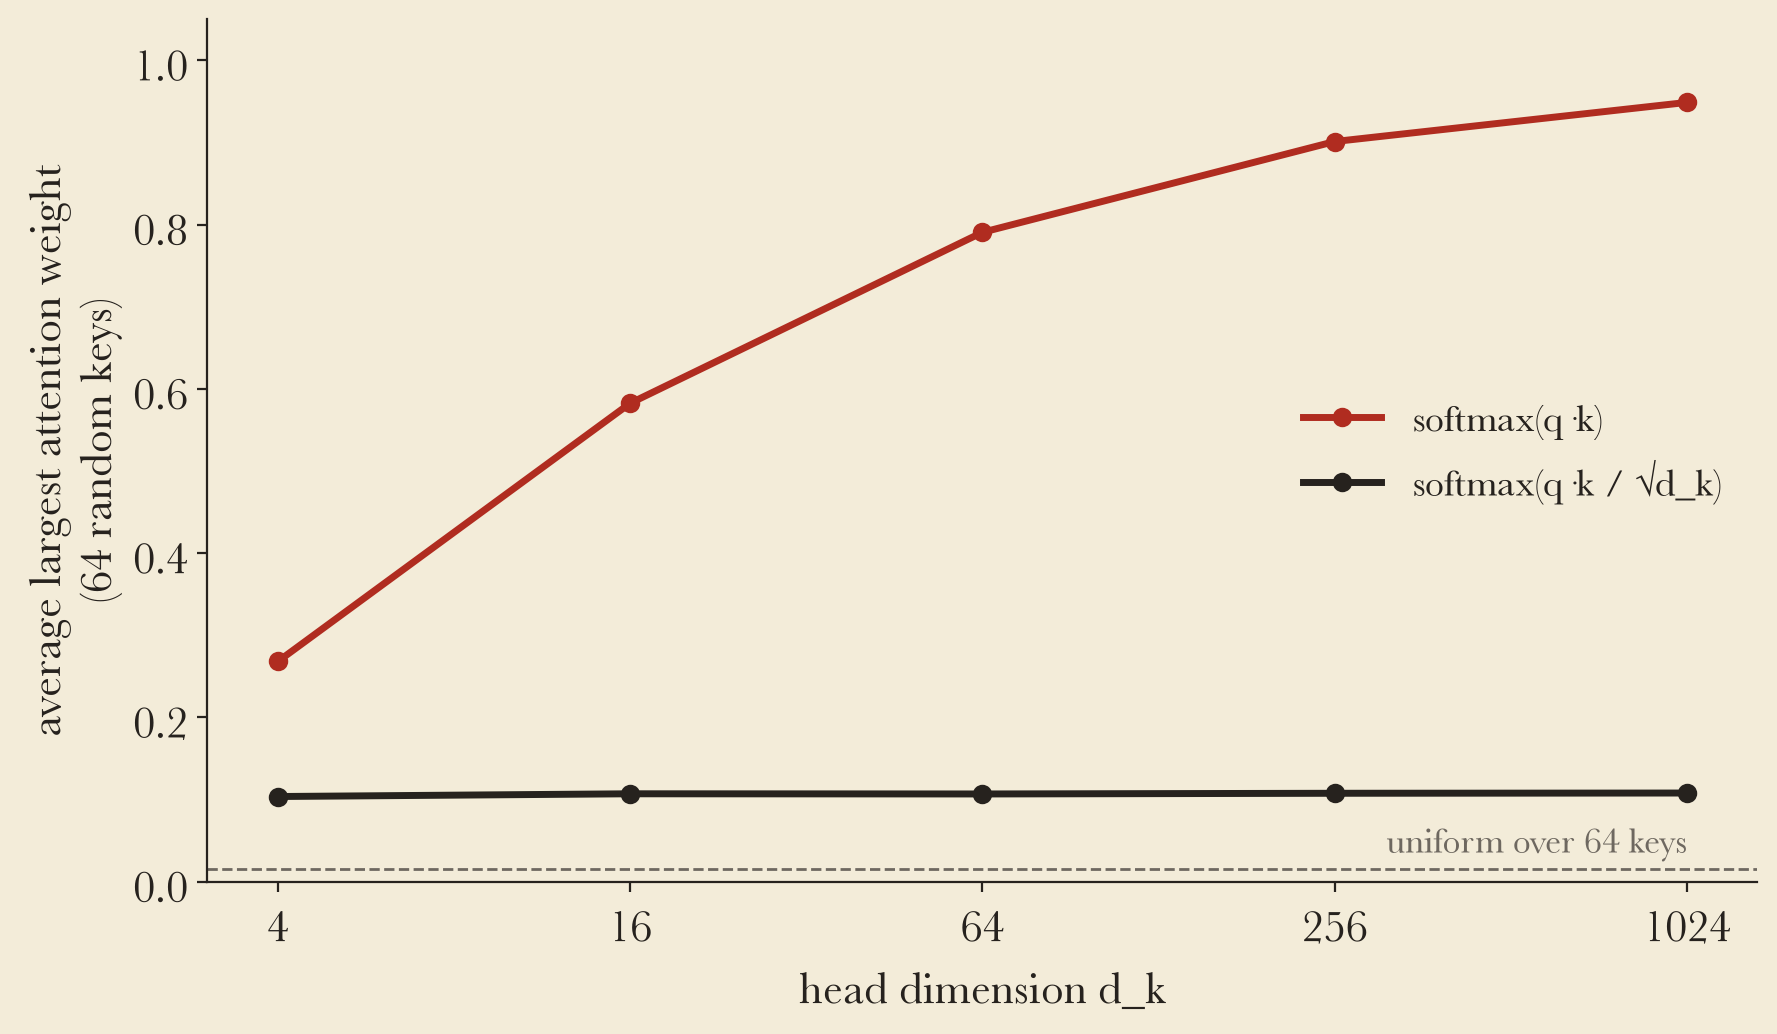
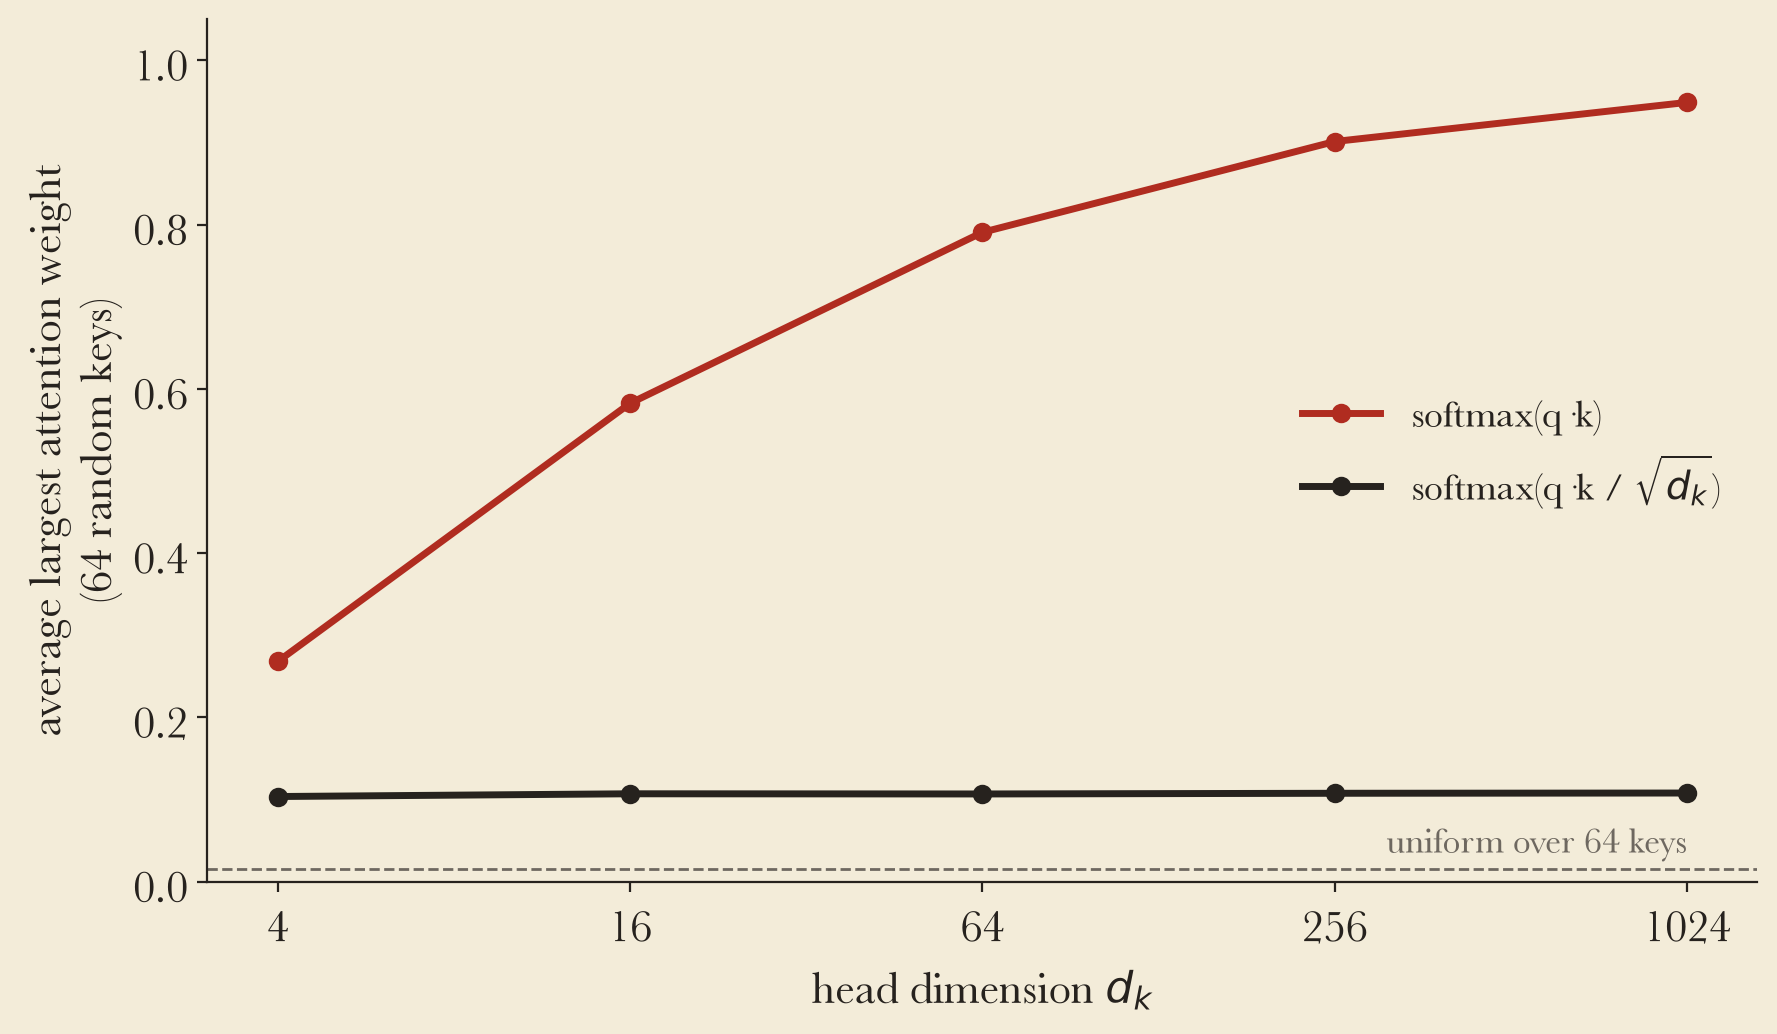
Lecture 3: technical part rebuilt on Jurafsky's ladder

Changed region(s): [[0.4333, 0.9284, 0.65, 0.9903], [0.7428, 0.4333, 0.9595, 0.4952], [0.7428, 0.3714, 0.8976, 0.4333]]

diff --git a/slides/lectures/03-attention.md b/slides/lectures/03-attention.md
@@ -10,7 +10,7 @@
 </div>
 <div class="pic" style="background-image:url(assets/babbage.jpg)"></div>
 
-Note: Babbage's Difference Engine: a machine that computes tables. Today's machine computes a table too, a different one for every sentence. The lecture in one sentence, to say at the start and at the end: each word asks a question, compares it with a label on every earlier word, and takes a weighted average of what those words carry. Pacing for 90 minutes: recap and problem 8, history 12, soft lookup and the dial 27, break 10, queries keys values 15, causal and heads with the lab 10, GPT-2 and what is missing 8, close 2. Running behind: drop the shuffle press-run (the table slide carries the message).
+Note: Babbage's Difference Engine: a machine that computes tables. Today's machine computes a table too, a different one for every sentence. The lecture in one sentence, to say at the start and at the end: each word asks a question, compares it with a label on every earlier word, and takes a weighted average of what those words carry. Pacing for 90 minutes: recap and problem 8, history 12, soft lookup and the dial 22, context 6, queries keys values 16, causal and heads with the lab 12, GPT-2 and what is missing 8, close 2. Running behind: drop the shuffle press-run (the table slide carries the message).
 
 ---
 
@@ -220,6 +220,12 @@ A *soft* dictionary would answer "kitten" anyway: compare it with every key, see
 
 </div>
 
+<div class="fragment">
+
+Build a table out of the dict's parts and you have attention's ingredients: the query is what you ask, the keys label every row, the values are what the rows hand over. Three intuitions make the table work, one per slide from here.
+
+</div>
+
 Note: Press run: "Katze", then a KeyError. The key that is asked for is the query. Attention keeps the three parts of a dict, query, key and value, and replaces "equal or not" by "how similar".
 
 ---
@@ -245,7 +251,7 @@ Note: Each row is the token's row of the embedding table from lecture 2, written
 
 <p class="kicker">Soft lookup · 3</p>
 
-## Step 1: a score is the dot product of the query with each key.
+## Intuition 1: the score of a query and a key is their dot product.
 
 $$ q \cdot k = q_1 k_1 + q_2 k_2 + q_3 k_3 + q_4 k_4 $$
 
@@ -259,15 +265,17 @@ $$ q \cdot k = q_1 k_1 + q_2 k_2 + q_3 k_3 + q_4 k_4 $$
 
 The dot product is large when two vectors point the same way.
 
+<img src="figures/03_dot_product.png" alt="Three pairs of vectors: the same way gives a large score, at right angles zero, opposite ways negative" style="height: 200px;">
+
 </div>
 
-Note: Do one on the board. This is the "how similar" of the soft dict. With these readable vectors the scores are whole numbers; in a real model they are anything.
+Note: Do one on the board. This is the "how similar" of the soft dict. With these readable vectors the scores are whole numbers; in a real model they are anything. The strip (figures/03_dot_product.py): the same way gives a large product, right angles zero, opposite ways negative.
 
 ---
 
 <p class="kicker">Soft lookup · 4</p>
 
-## Step 2: softmax turns scores into weights that sum to one.
+## Intuition 2: softmax turns the scores into weights that sum to one.
 
 <div style="font-size: 0.95em; display: flex; justify-content: center;">
 
@@ -295,7 +303,7 @@ Note: Why e and not just the scores: scores can be negative, weights cannot. Sof
 
 <p class="kicker">Soft lookup · 5</p>
 
-## Step 3: the output is the weighted average of the values.
+## Intuition 3: the output is the weighted average of the values.
 
 $$ z = 0.711\, v_{\text{cat}} + 0.096\, v_{\text{sat}} + 0.096\, v_{\text{mat}} + 0.096\, v_{\text{it}} $$
 
@@ -309,7 +317,13 @@ $$ z = [0.711,\ 0.096,\ 0.096,\ 0.096] $$
 
 </div>
 
-Note: This z replaces the row of "it" for the next layer. That is the whole point: after attention, "it" carries what it refers to. The weights tell you where the values came from, not why: say this now, it comes back with GPT-2 in Part 5.
+<div class="fragment">
+
+The values are little rows of meaning, and the blend is "it"'s new row: "the output of attention is a sum of the embeddings of prior tokens weighted by their similarity with the current token embedding" (Jurafsky & Martin).
+
+</div>
+
+Note: This z replaces the row of "it" for the next layer. That is the whole point: after attention, "it" carries what it refers to. The weights tell you where the values came from, not why: say this now, it comes back with GPT-2 in Part 4. The quote: Jurafsky & Martin, SLP3 ch. 7, §7.1.1.
 
 ---
 
@@ -372,6 +386,54 @@ Note: Drag slowly. At 0 every word gets 0.25: a blurry average. At 1: 0.475 on c
 
 ---
 
+<p class="kicker">Context · 1</p>
+
+## A word's row of numbers has to take in its context.
+
+- "it" can mean different things. You cannot look "it" up in a dictionary and know what it means here: that depends on the sentence.
+- Lecture 2 gave every token the same row in every sentence. A word whose meaning changes with context needs a row that changes too.
+- The row attention writes is called a contextual embedding: the meaning of the word, in this sentence.
+
+<div class="fragment">
+
+"Attention is a method for enriching the representation of a token by incorporating contextual information." That is Jurafsky and Martin's one-line version of today.
+
+</div>
+
+Note: Jurafsky and Martin open their transformer chapter exactly here (SLP3 ch. 7, §7.1): their running example is "The chicken didn't cross the road because it", where the row for "it" keeps both readings open. Our cat/mat pair from the third slide is the same point, now with the name for the row. The quote: their transformer slide deck, web.stanford.edu/~jurafsky/slp3/slides/transformer_aug26.pdf.
+
+---
+
+<p class="kicker">Context · 2</p>
+
+## The bigram saw one word of context; attention sees the whole sentence.
+
+- Lecture 1's bigram guessed the next word from the word before it; even the best n-grams saw a handful of words. The sentence never entered.
+- Part 1's RNNs tried: read every word, keep the state updated, carry the whole sentence in one running vector.
+- The modern way is the one we just built by hand: every word asks the words around it, and blends in the ones that answer.
+
+Note: The lecture's arc in one throwback: counting (lecture 1), a running state (Part 1), attention (Part 2). The last bullet is Ruggero's phrasing. "The words around it" is deliberate: the causal slides turn "around" into "before" when the model writes left to right.
+
+---
+
+<p class="kicker">Context · 3</p>
+
+## When some words matter more for a word, we say the word attends to them.
+
+- Some context is more relevant than the rest: for "it", the cat matters; the "the" before it does not.
+- That is the word attention: the words that really matter for understanding a word are the ones it attends to.
+- The weights we computed by hand are "how much each word matters": 0.711 on "cat" is attention, given by one word to another.
+
+<div class="fragment">
+
+So: attention "weighs and combines the representations from appropriate other tokens" (Jurafsky & Martin). Next question: who writes the queries?
+
+</div>
+
+Note: Jurafsky & Martin, SLP3 ch. 7, §7.1: "Attention is the mechanism in the transformer that weighs and combines the representations from appropriate other tokens in the context...". Until now we wrote the queries by hand; Part 3 is about the model learning them.
+
+---
+
 <!-- .slide: class="divider" data-background-image="assets/press.jpg" data-background-size="cover" data-background-position="center" -->
 
 <div class="band">
@@ -399,21 +461,13 @@ Note: Until now we wrote the query by hand and used the rows themselves as keys 
 
 <p class="kicker">Queries, keys, values · 2</p>
 
-## Three tables turn each row into a query, a key and a value.
-
-$$ Q = X W_Q \qquad K = X W_K \qquad V = X W_V $$
-
-<p class="inwords">Each W is a table of numbers; multiplying a row by it is called a projection. Our hand-made W<sub>Q</sub> has a 4 where the pronoun row meets the animal column, and another where the action row meets it: "it" and "sat" both go looking for an animal. W<sub>K</sub> and W<sub>V</sub> leave the rows as they are.</p>
-
-<div class="fragment">
+## The whole thing is one equation.
 
 $$ \text{Attention}(Q, K, V) = \text{softmax}\left(\frac{QK^\top}{\sqrt{d_k}}\right) V $$
 
-<p class="inwords">The three steps for every word at once. QKᵀ is the table of every query's dot product with every key; the ᵀ (transpose) swaps K's rows and columns. d<sub>k</sub> is how many numbers a key has, here 4, so the scores are divided by √4 = 2. The 4 in W<sub>Q</sub> divided by 2 gives our score of 2.</p>
+<p class="inwords">Part 2's three intuitions, for every word at once. Q, K and V are the sentence's rows after the learned tables: X times W<sub>Q</sub> gives the queries, X times W<sub>K</sub> the keys, X times W<sub>V</sub> the values. QKᵀ is the table of every query's dot product with every key; the ᵀ (transpose) swaps K's rows and columns. d<sub>k</sub> is how many numbers a key has, here 4, so the scores are divided by √4 = 2. The 4 in our hand-made W<sub>Q</sub> divided by 2 gives our score of 2.</p>
 
-</div>
-
-Note: Vaswani et al. 2017, eq. (1). Kᵀ, "K transposed", is K with rows and columns swapped. Real models learn these tables in training (lecture 5); nobody writes a 4 by hand. Why √d_k: three slides on.
+Note: Vaswani et al. 2017, eq. (1); the same equation heads Jurafsky and Martin's §7.1.1. The three projection formulas moved into the in-words line (the slide was three formulas before). The hand-made W<sub>Q</sub> has its 4 where the pronoun row meets the animal column, and another where the action row meets it: "it" and "sat" both go looking for an animal; W<sub>K</sub> and W<sub>V</sub> leave the rows as they are. Real models learn these tables in training (lecture 5); nobody writes a 4 by hand. Why √d_k: three slides on.
 
 ---
 
@@ -444,7 +498,7 @@ Each row is one word asking, and sums to 1.
 </div>
 </div>
 
-Note: figures/03_attention_by_hand.py. Rows: the word asking. Columns: the word looked at. "sat" and "it" put 0.711 on "cat". "cat" and "mat" ask nothing (their query is all zeros), so they spread 0.25 everywhere. sum(axis=1, keepdims=True) divides each row by its own sum. Ask: what is wrong with row "cat"? It looks at words that come after it. Part 4.
+Note: figures/03_attention_by_hand.py. Rows: the word asking. Columns: the word looked at. "sat" and "it" put 0.711 on "cat". "cat" and "mat" ask nothing (their query is all zeros), so they spread 0.25 everywhere. sum(axis=1, keepdims=True) divides each row by its own sum. Ask: what is wrong with row "cat"? It looks at words that come after it; the masking slides fix that.
 
 ---
 
@@ -469,27 +523,60 @@ Note: Every row stays near 0.25: a model before training is the dial at almost z
 
 <p class="kicker">Queries, keys, values · 5</p>
 
+## With learned tables, the weights become meaningful.
+
+<img src="figures/03_gpt2_row.png" alt="GPT-2 small layer 4 head 3: the share of each earlier word in how it attends" style="height: 250px;">
+
+<p class="caption">GPT-2 small, layer 4, head 3, on our sentence: 84% of "it" goes to "cat". The same shape as our hand-made table, with 768 learned numbers per key instead of 4.</p>
+
+Note: Nobody wrote this row: training put the 84% there (lecture 5). Data: slides/assets/gpt2_attention.json, from figures/03_gpt2_attention.py; the strip is figures/03_gpt2_row.py. n = 1 sentence, a demonstration, and the same head is clickable in Part 4's live demo.
+
+---
+
+<p class="kicker">Queries, keys, values · 6</p>
+
 ## Dividing by √d keeps the dial from being turned too far.
 
 ![Largest attention weight with and without scaling](figures/03_scaling_sqrt_dk.png)
 
 <p class="caption">Random queries and keys, 64 keys, 2,000 queries per point. Without the division, a key size of 1,024 puts 0.95 of the weight on one key.</p>
 
+<div class="fragment">
+
+Why the square root: a dot product adds d products, so the scores grow with the width all by themselves. A sum of d terms is typically about √d in size, so dividing by √d keeps every width on the same dial.
+
+</div>
+
 Note: Script: figures/03_scaling_sqrt_dk.py. x is d_k, the numbers per key; y is the biggest weight in a row, averaged. A dot product adds d_k products, so with more numbers per key the scores spread wider: their standard deviation grows as √d_k (2.0 at d_k = 4, 32 at d_k = 1,024). Wider scores are the dial turned up. Dividing by √d_k puts it back. Vaswani et al., section 3.2.1: "We suspect that for large values of d_k, the dot products grow large in magnitude, pushing the softmax function into regions where it has extremely small gradients." The gradient part is theirs and is lecture 5's business.
 
 ---
 
-<!-- .slide: class="divider" data-background-image="assets/semaphore.jpg" data-background-size="cover" data-background-position="center" -->
+<p class="kicker">Causal · 1</p>
 
-<div class="band">
-<p class="kicker">Part 4</p>
+## Transformers come in kinds; ours reads only the past.
 
-## No peeking, and many questions at once.
+<div class="cols wide-right">
+<div>
+
+- Some read the sentence in both directions, the encoders: attention left to right and right to left, every word may look at every word.
+- Some write text, the decoders, like GPT. To guess the next word, a model cannot read the words that come after it.
+- The first Transformer was both at once, an encoder-decoder pair for translation. We build the decoder half.
+
 </div>
+<div>
+
+<img src="figures/03_attention_weights.png" alt="A full 4 by 4 attention table with no mask: every word may look at every word" style="height: 300px;">
+
+<p class="caption">An encoder's table: no blanks, both directions. Our hand-made table from two slides back, no mask.</p>
+
+</div>
+</div>
+
+Note: Kinds, and how they differ in training: lecture 5, say and move on. This is also why "attention is left-to-right" is false as a general claim: the mask decides, and encoders show exactly that. The table is the same hand-made 4 x 4 from Queries keys values 3; the next slides blank the future on it.
 
 ---
 
-<p class="kicker">Causal · 1</p>
+<p class="kicker">Causal · 2</p>
 
 ## One pass plays every round of Shannon's game at once.
 
@@ -497,13 +584,19 @@ Note: Script: figures/03_scaling_sqrt_dk.py. x is d_k, the numbers per key; y is
 
 Each position guesses the next token. If position t could see token t + 1, it would copy the answer. Reading only what came before is what causal means here.
 
+<div class="fragment">
+
+A trigram position saw two words of context; a decoder position sees everything before it. All T positions come in one pass.
+
+</div>
+
 Note: Lecture 1: the guesser sees only the text so far. A sentence of T tokens gives T guesses in one pass, which is why training is cheap (lecture 5). How z becomes a guess over the vocabulary is lecture 4. Script: figures/03_next_token.py. Grey arrows: what each position may read.
 
 ---
 
-<p class="kicker">Causal · 2</p>
+<p class="kicker">Causal · 3</p>
 
-## The causal mask blanks everything above the diagonal.
+## Masking makes the model autoregressive: no word may read its own future.
 
 <div class="cols wide-right">
 <div>
@@ -514,6 +607,12 @@ S[future] = -np.inf
 ```
 
 A hidden score becomes −∞ before the softmax, and $e^{-\infty} = 0$. The row still sums to 1.
+
+<div class="fragment">
+
+The mask stops the model from peeking into the future, and teaches each word to attend only to words already said: a word cannot take its meaning from words that were not there when it was read.
+
+</div>
 
 <div class="fragment">
 
@@ -533,7 +632,7 @@ Note: np.triu(..., k=1) marks the cells above the diagonal: the future. Masking 
 
 ---
 
-<p class="kicker">Causal · 3</p>
+<p class="kicker">Causal · 4</p>
 
 ## Without the mask, the past changes when you edit the future. Press run.
 
@@ -558,13 +657,15 @@ Note: We change only the last word, "it" to "cat", and print the output for the 
 
 <p class="kicker">Multi-head</p>
 
-## Two heads ask two questions: one finds the animal, the other the object.
+## Context can matter in many ways, so attention runs several heads in parallel.
+
+One head gives one weighted average: it must pick the animal or the mat. Two heads keep both readings open.
 
 ![Two causal attention tables: head 1 sends it to cat, head 2 sends it to mat](figures/03_heads.png)
 
 <p class="caption">Head 2's W<sub>Q</sub> has its 4 where the pronoun row meets the object column. "it" gets one answer from each, and the layers after decide between them.</p>
 
-Note: Back to the two sentences at the start: "tired" or "soft" comes after "it", so a left-to-right model has to keep both readings. One head cannot: it gives one weighted average. In a real model the heads are not separate models. The query, key and value tables are cut into H column blocks, each head uses its own block, and the outputs are glued back together and mixed by one more table, W_O (lecture 4). The cut is a reshape, so 8 heads of 64 numbers cost about the same as one head of 512. Vaswani et al., section 3.2.2: h = 8 heads, d_k = 64. "The layers after" means later blocks of the stack, next week's word. Script: figures/03_attention_by_hand.py.
+Note: The lead is Ruggero's framing: this contextualising can happen in many ways, so several questions are asked at once. Jurafsky and Martin: "each head might be attending to the context for different purposes: heads might be specialized to represent different linguistic relationships between context elements and the current token, or to look for particular kinds of patterns in the context" (SLP3 ch. 7, §7.1.1). Back to the two sentences at the start: "tired" or "soft" comes after "it", so a left-to-right model has to keep both readings. One head cannot: it gives one weighted average. In a real model the heads are not separate models. The query, key and value tables are cut into H column blocks, each head uses its own block, and the outputs are glued back together and mixed by one more table, W_O (lecture 4). The cut is a reshape, so 8 heads of 64 numbers cost about the same as one head of 512. Vaswani et al., section 3.2.2: h = 8 heads, d_k = 64. "The layers after" means later blocks of the stack, next week's word. Script: figures/03_attention_by_hand.py.
 
 ---
 
@@ -598,7 +699,7 @@ Note: Command: `cd code && python tests.py`. The causality check changes only th
 <!-- .slide: class="divider" data-background-image="assets/luyken.jpg" data-background-size="cover" data-background-position="center" -->
 
 <div class="band">
-<p class="kicker">Part 5</p>
+<p class="kicker">Part 4</p>
 
 ## GPT-2 has been doing this all along.
 </div>
